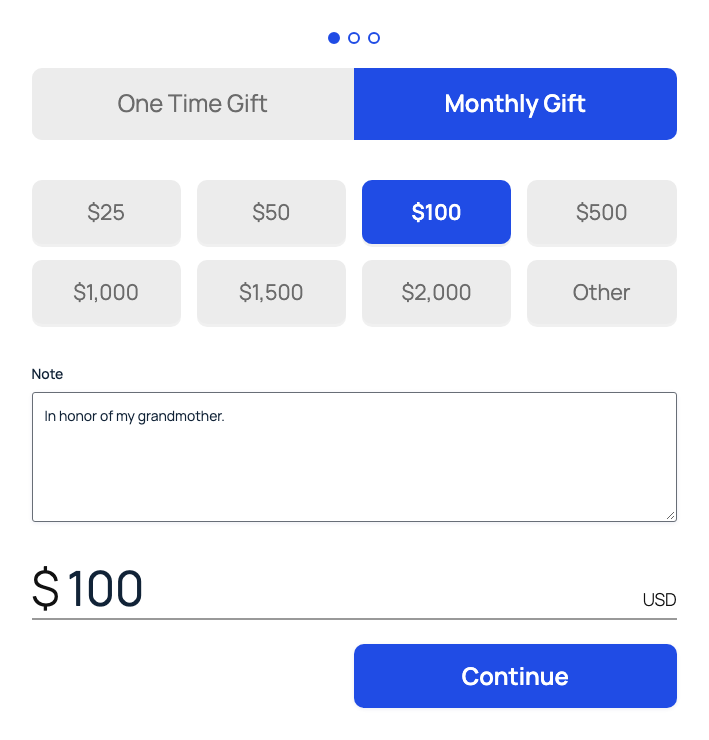
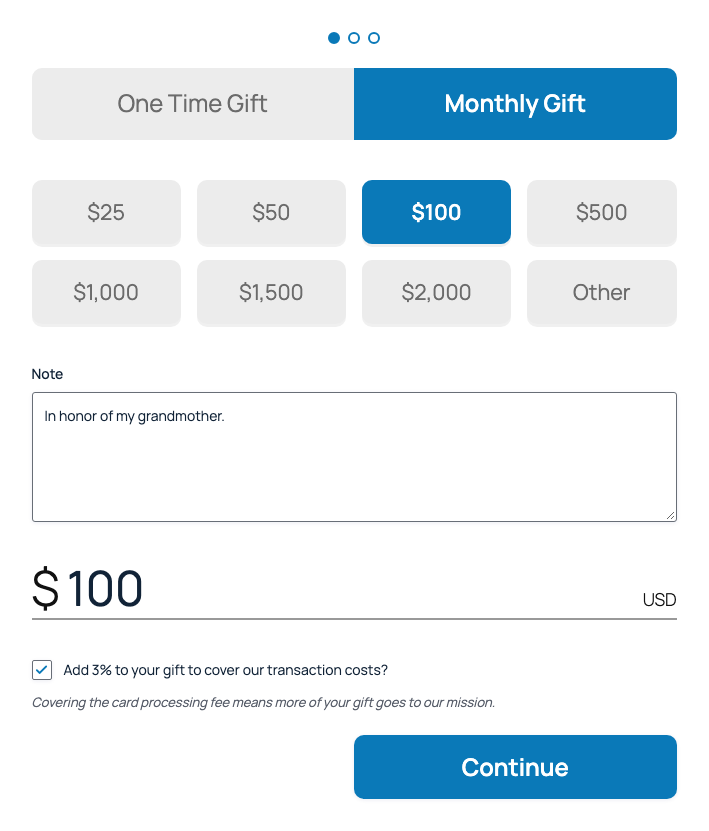
Move the "cover the fee" checkbox to page 1, under the amount
Ticking it on page 3 cleared the donor's card details: the Stripe
Add-On's payment field watches the form's products and rebuilds itself
whenever a price changes. With the checkbox on page 1, nothing on the
payment page changes a price.

- New forms put it right after the amount. Saving the Donation tab
  moves it there on existing forms, and makes sure the fee product's
  "only when ticked" condition is in place.
- The page-2 summary shows the total including any fee, from Gravity
  Forms' own total.
- Page descriptions, illustrations, docs, readme captions and
  screenshots follow the new layout; AGENTS.md says why.

Tested in Stripe test mode: one-time and monthly gifts with the fee
ticked on page 1, card details intact on page 3, charged $51.50.

diff --git a/site/index.html b/site/index.html
@@ -66,9 +66,9 @@
 		<h2>Three short pages for donors</h2>
 		<ol class="steps">
 			<li>
-				<img src="{{root}}assets/images/step-1.svg" alt="Page 1: one-time or monthly, amount buttons, a note and the amount." width="220" height="260" loading="lazy">
+				<img src="{{root}}assets/images/step-1.svg" alt="Page 1: one-time or monthly, amount buttons, a note, the amount and the fee option." width="220" height="260" loading="lazy">
 				<h3>The gift</h3>
-				<p>One-time or monthly, a preset amount or their own, and an optional note.</p>
+				<p>One-time or monthly, a preset amount or their own, an optional note, and the option to cover the processing fee.</p>
 			</li>
 			<li>
 				<img src="{{root}}assets/images/step-2.svg" alt="Page 2: name, email, phone, billing address and a summary of the gift." width="220" height="260" loading="lazy">
@@ -76,9 +76,9 @@
 				<p>Name, email, phone and billing address, with a summary of their gift and a way back to change it.</p>
 			</li>
 			<li>
-				<img src="{{root}}assets/images/step-3.svg" alt="Page 3: card payment, the processing fee option and the total." width="220" height="260" loading="lazy">
+				<img src="{{root}}assets/images/step-3.svg" alt="Page 3: card payment and the total." width="220" height="260" loading="lazy">
 				<h3>Payment</h3>
-				<p>Card payment through Stripe, the option to cover the fee, and a total that says whether it's charged once or every month.</p>
+				<p>Card payment through Stripe, and a total that says whether it's charged once or every month.</p>
 			</li>
 		</ol>
 	</div>

diff --git a/assets/js/giftkit.js b/assets/js/giftkit.js
@@ -18,6 +18,20 @@
 
 	var strings = window.giftkit_strings || {};
 
+	// Each form's latest total, from Gravity Forms, and the function that
+	// refreshes its summary.
+	var totals = {};
+	var summaries = {};
+	if ( window.gform && typeof window.gform.addFilter === 'function' ) {
+		window.gform.addFilter( 'gform_product_total', function ( total, formId ) {
+			totals[ formId ] = total;
+			if ( summaries[ formId ] ) {
+				summaries[ formId ]();
+			}
+			return total;
+		}, 50 );
+	}
+
 	function formatAmount( value ) {
 		var number = parseFloat( value );
 		if ( isNaN( number ) ) {
@@ -70,7 +84,9 @@
 		function updateSummary() {
 			var monthly = isMonthly();
 
-			$form.find( '.giftkit-summary-amount' ).text( formatAmount( $amount.val() ) );
+			// The total includes the processing fee when the donor added it.
+			var total = typeof totals[ formId ] === 'number' && totals[ formId ] > 0 ? totals[ formId ] : $amount.val();
+			$form.find( '.giftkit-summary-amount' ).text( formatAmount( total ) );
 			$form.find( '.giftkit-summary-frequency' ).text( monthly ? ( strings.eachMonth || '' ) : '' );
 
 			// Page 3: say above the total whether it's charged once or monthly.
@@ -108,6 +124,7 @@
 			$form.trigger( 'submit', [ true ] );
 		} );
 
+		summaries[ formId ] = updateSummary;
 		syncPresetToAmount();
 		updateSummary();
 	}

diff --git a/includes/class-form-builder.php b/includes/class-form-builder.php
@@ -251,6 +251,21 @@ class Form_Builder {
 		if ( $fee_line && $amount ) {
 			$fee_line->calculationFormula = sprintf( '{%s:%d} * %s', $amount->label, $amount->id, self::plain_number( $percent / 100 ) );
 		}
+		// The fee only counts when the donor ticks the box.
+		if ( $fee_line && $fee_choice ) {
+			$fee_line->conditionalLogic = array(
+				'actionType' => 'show',
+				'logicType'  => 'all',
+				'rules'      => array( array( 'fieldId' => (string) $fee_choice->id, 'operator' => 'is', 'value' => 'yes' ) ),
+			);
+		}
+
+		// The fee checkbox belongs on the amount's page, right under it. On
+		// the payment page, any price change makes the Stripe Add-On rebuild
+		// its payment field and clear the card details a donor has typed.
+		if ( $fee_choice && $amount ) {
+			$form = self::place_after( $form, $fee_choice, $amount );
+		}
 
 		// Thank-you message, kept in the default confirmation.
 		foreach ( ( rgar( $form, 'confirmations' ) ?: array() ) as $id => $confirmation ) {
@@ -344,6 +359,31 @@ class Form_Builder {
 			'message'           => implode( "\n", $message ),
 			'disableAutoformat' => true,
 		);
+	}
+
+	/**
+	 * Moves a field to directly after another, on the same page.
+	 *
+	 * @param array     $form  The form.
+	 * @param \GF_Field $field The field to move.
+	 * @param \GF_Field $after The field it should follow.
+	 *
+	 * @return array
+	 */
+	private static function place_after( $form, $field, $after ) {
+		$fields = array_values( array_filter( $form['fields'], function ( $f ) use ( $field ) {
+			return (int) $f->id !== (int) $field->id;
+		} ) );
+		foreach ( $fields as $index => $f ) {
+			if ( (int) $f->id === (int) $after->id ) {
+				$field->pageNumber = $after->pageNumber;
+				array_splice( $fields, $index + 1, 0, array( $field ) );
+				$form['fields'] = $fields;
+				break;
+			}
+		}
+
+		return $form;
 	}
 
 	/**
@@ -573,6 +613,14 @@ class Form_Builder {
 				'numberFormat' => 'decimal_dot',
 				'placeholder'  => '0',
 			),
+			array(
+				'type'           => 'checkbox',
+				'role'           => 'fee',
+				'label'          => __( 'Cover Transaction Costs', 'giftkit' ),
+				'labelPlacement' => 'hidden_label',
+				'choices'        => array(),
+				'inputs'         => array(),
+			),
 			// Page 2: the donor.
 			array( 'type' => 'page', 'role' => 'page-2' ),
 			array(
@@ -684,14 +732,6 @@ class Form_Builder {
 					array( 'id' => '.4', 'label' => __( 'Card Type', 'giftkit' ) ),
 					array( 'id' => '.5', 'label' => __( 'Cardholder Name', 'giftkit' ), 'isHidden' => true ),
 				),
-			),
-			array(
-				'type'           => 'checkbox',
-				'role'           => 'fee',
-				'label'          => __( 'Cover Transaction Costs', 'giftkit' ),
-				'labelPlacement' => 'hidden_label',
-				'choices'        => array(),
-				'inputs'         => array(),
 			),
 			array(
 				'type'                => 'product',

diff --git a/includes/class-admin-page.php b/includes/class-admin-page.php
@@ -203,7 +203,7 @@ class Admin_Page {
 			array(
 				'image' => 'step-1.svg',
 				'title' => __( '1. The gift', 'giftkit' ),
-				'text'  => __( 'One-time or monthly, preset amount buttons or another amount, and an optional note.', 'giftkit' ),
+				'text'  => __( 'One-time or monthly, preset amount buttons or another amount, an optional note, and the option to cover the processing fee.', 'giftkit' ),
 			),
 			array(
 				'image' => 'step-2.svg',
@@ -213,7 +213,7 @@ class Admin_Page {
 			array(
 				'image' => 'step-3.svg',
 				'title' => __( '3. Payment', 'giftkit' ),
-				'text'  => __( 'Card payment through Stripe, an option to cover the processing fee, and the total.', 'giftkit' ),
+				'text'  => __( 'Card payment through Stripe, and a total that says whether it\'s charged once or every month.', 'giftkit' ),
 			),
 		);
 

diff --git a/README.md b/README.md
@@ -95,14 +95,14 @@ Whichever currency Gravity Forms is set to. Amounts and totals use its symbol an
 ### 2. The Donation settings tab: amounts, monthly gifts, the processing fee and the thank-you message. ###
 ![The Donation settings tab: amounts, monthly gifts, the processing fee and the thank-you message.](.wordpress-org/screenshot-2.png)
 
-### 3. Page 1 of the form: one-time or monthly, preset amounts, and a note. ###
-![Page 1 of the form: one-time or monthly, preset amounts, and a note.](.wordpress-org/screenshot-3.png)
+### 3. Page 1 of the form: one-time or monthly, preset amounts, a note, and the option to cover the processing fee. ###
+![Page 1 of the form: one-time or monthly, preset amounts, a note, and the option to cover the processing fee.](.wordpress-org/screenshot-3.png)
 
 ### 4. Page 2: the donor's details, with a summary of their gift. ###
 ![Page 2: the donor's details, with a summary of their gift.](.wordpress-org/screenshot-4.png)
 
-### 5. Page 3: card payment through Stripe, the optional processing fee, and a total that says whether it's charged once or monthly. ###
-![Page 3: card payment through Stripe, the optional processing fee, and a total that says whether it's charged once or monthly.](.wordpress-org/screenshot-5.png)
+### 5. Page 3: card payment through Stripe, and a total that says whether it's charged once or monthly. ###
+![Page 3: card payment through Stripe, and a total that says whether it's charged once or monthly.](.wordpress-org/screenshot-5.png)
 
 
 ## Changelog ##

diff --git a/AGENTS.md b/AGENTS.md
@@ -19,6 +19,7 @@ It's built by Michael Wender (Wenmark Digital Solutions). The repo is public at 
 
 - `giftkit.php` registers the add-on on `gform_loaded`.
 - `includes/class-form-builder.php` defines the form and keeps it in step with its settings. Each field GiftKit manages carries a `giftkitRole` property (`frequency`, `presets`, `amount`, `fee`, `total` and so on). Settings, feeds and front-end code find fields **by role**, never by field ID or CSS class, so the form survives someone reordering or adding fields.
+- **Nothing on the payment page may change a price.** The Stripe Add-On's payment field watches the form's products and rebuilds itself whenever a price changes, which clears the card details a donor has typed. That's why the "cover the fee" checkbox sits on page 1 under the amount, and `Form_Builder::apply_settings()` moves it there on older forms.
 - Settings live in the form object under `$form['giftkit']` (the add-on framework's per-form settings), along with the two Stripe feed IDs.
 - Pricing is native GF: two calculation products (the gift, and the fee shown only when the donor opts in) read the amount field, and the Stripe feeds charge the Form Total. One feed handles one-time gifts and the other monthly subscriptions, chosen by the Gift Type field's value (`one-time` / `monthly`), so its labels can be reworded freely.
 

diff --git a/docs/donation-settings.md b/docs/donation-settings.md
@@ -24,7 +24,7 @@ The form's shortcode, with a **Copy** button. Paste it into any page, or use the
 
 ## Processing fee
 
-**Fee percentage.** Donors can choose to add this percentage to their gift to cover your card processing costs. The checkbox on the form says "Add 3% to your gift to cover our transaction costs?" (with your percentage). Set it to 0 to hide the option.
+**Fee percentage.** Donors can choose to add this percentage to their gift to cover your card processing costs. The checkbox sits on the form's first page, under the amount, and says "Add 3% to your gift to cover our transaction costs?" (with your percentage). Set it to 0 to hide the option.
 
 **Note below the fee option.** A short line under the checkbox explaining why covering the fee helps.
 
